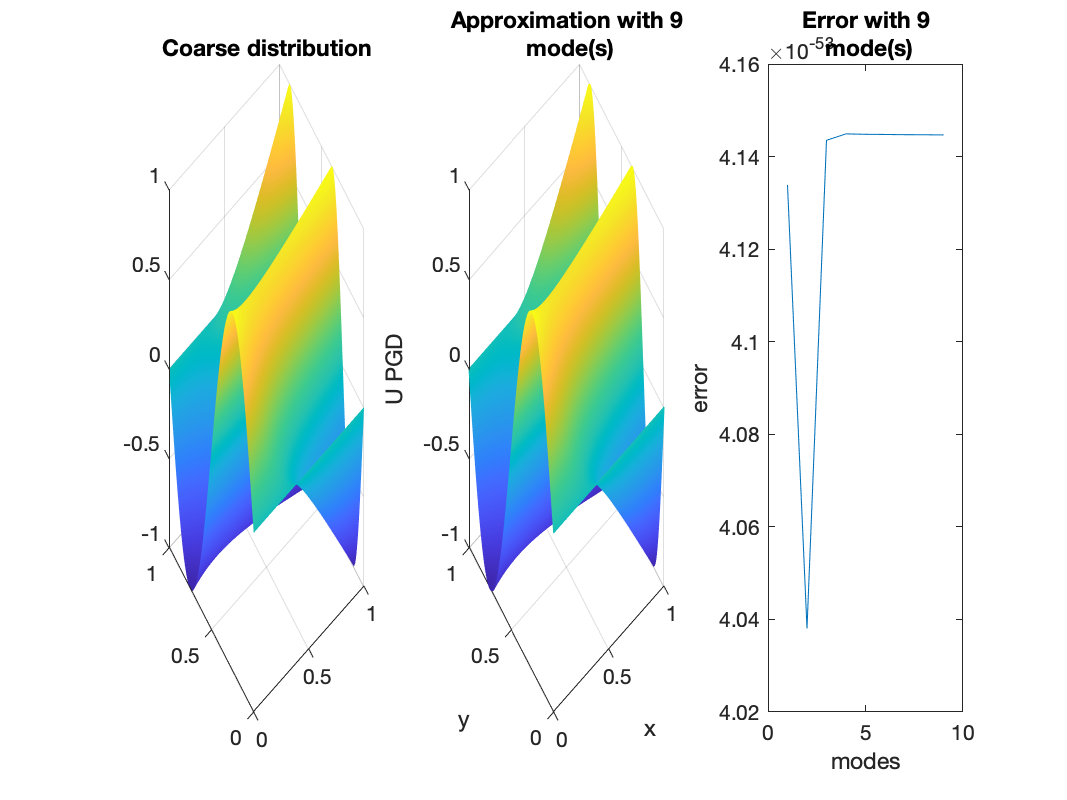
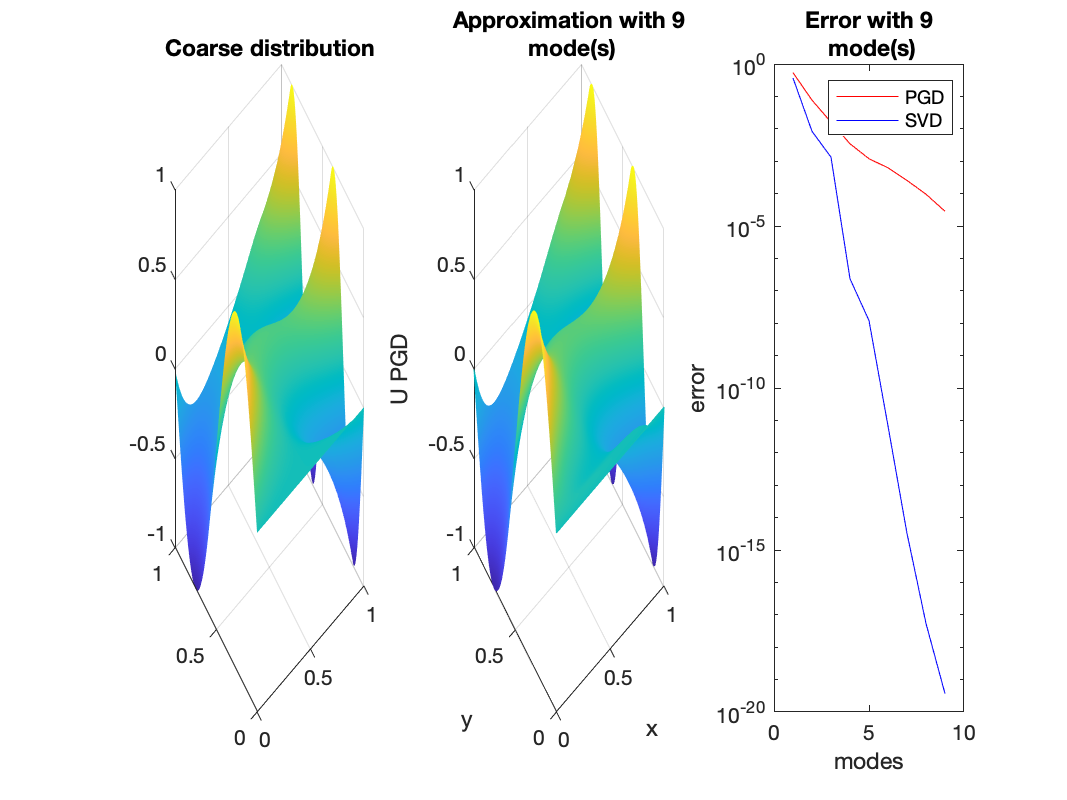
[TP2] add svd (tag:w)

diff --git a/TP2_eleve/TP2_moeeze.m b/TP2_eleve/TP2_moeeze.m
@@ -42,11 +42,11 @@ udLd = -sin(4*pi*lt)/T; % boundary condition
 
 %% discrete force
 if if_force==1
-    %f = (1e3 * (sin(3*pi*lt)/T)' * (sin(5*pi*lx)/L))';
+    f = (1e3 * (sin(3*pi*lt)/T)' * (sin(5*pi*lx)/L))';
     [mesh_x_f,mesh_t_f] = meshgrid(tf,xf);
     [mesh_x_g,mesh_t_g] = meshgrid(tc,xc);
-    fg = 10*rand(nt/10,nx/10);
-    f = interp2(mesh_x_g,mesh_t_g,fg,mesh_x_f,mesh_t_f,'spline');
+    %fg = 10*rand(nt/10,nx/10);
+    %f = interp2(mesh_x_g,mesh_t_g,fg,mesh_x_f,mesh_t_f,'spline');
 end
 %%%%%%%%%%%%%%%%%%%%%%%%%%%%%%%%%%%%%%%%%%%%%%%%%%%%%%%%%%%%%%
 
@@ -101,8 +101,8 @@ xlabel('x')
 ylabel('t')
 zlabel('u')
 title(['Solution of the 1D Diff wave equation with force = ', num2str(if_force)]);
-%saveas(gcf, strcat('../Final Report/assets/TP2_ref_Dif_solution_', num2str(if_force), '.png'));
-%saveas(gcf, strcat('assets/TP2_ref_Dif_solution_', num2str(if_force), '.png'));
+saveas(gcf, strcat('../Final Report/assets/TP2_ref_Dif_solution_', num2str(if_force), '.png'));
+saveas(gcf, strcat('assets/TP2_ref_Dif_solution_', num2str(if_force), '.png'));
 
 %%%%%%%%%%%%%%%%%%%%%%%%%%%%%%%%%%%%%%%%%%%%%%%%%%%%%%%%%%%%%%
 % Plot collectively
@@ -122,11 +122,17 @@ figure(3)
 ucl = (1-lx/L)'*ud0d + (lx/L)'*udLd;
 G = F - K*ucl - M*ucldot;
 
+% Do SVD
+[X,S,V] = svd(full(u));
+U_SVD = zeros(nt,nx);
+
+
 lambda = lt;
 iter = 0;
 W = zeros(nx, nt) + ucl;
 nb_modes = 9;
 error = zeros(1, nb_modes);
+error_svd = zeros(1, nb_modes);
 for i = 1:nb_modes
     er = 1;
     while er > 1e-3
@@ -148,15 +154,24 @@ for i = 1:nb_modes
     G = G - K*Lambda*lambda;
     W = W + Lambda * lambda;
     
+    % Do SVD
+    U_SVD = X(:,1:i)*S(1:i,1:i)*V(:,1:i)';
+    num_svd = zeros(nx, 1);
+
     num = zeros(nx, 1);
     den = zeros(nx, 1);
     for j=1:nx
         num(j) = (u(j, :) - W(j, :))*It*(u(j, :) - W(j, :))';
         den(j) = (u(j, :))*It*(u(j, :))';
+        %SVD num
+        num_svd(j) = (u(j, :) - U_SVD(j, :))*It*(u(j, :) - U_SVD(j, :))';
     end
     num = num'*Ix*num;
     den = den'*Ix*den;
     error(i) = num/den;
+    %SVD error
+    num_svd = num_svd'*Ix*num_svd;
+    error_svd(i) = num_svd/den;
     figure(2)
     subplot(1,3,2)
     mesh(lx_mesh,lt_mesh,W');
@@ -168,7 +183,10 @@ for i = 1:nb_modes
     title(Title)
     figure(2)
     subplot(1,3,3);
-    plot(error);
+    semilogy(real(error), 'r');
+    hold on
+    semilogy(real(error_svd), 'b');
+    legend('PGD', 'SVD')
     xlabel('modes');
     ylabel('error');
     Title2 = ["Error with "+ i " mode(s)"];
